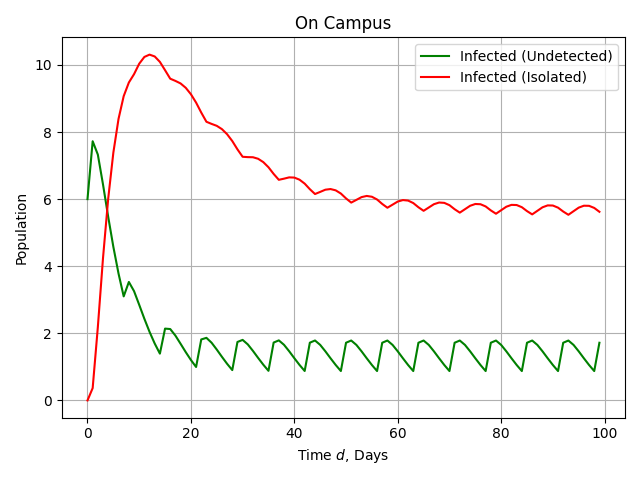
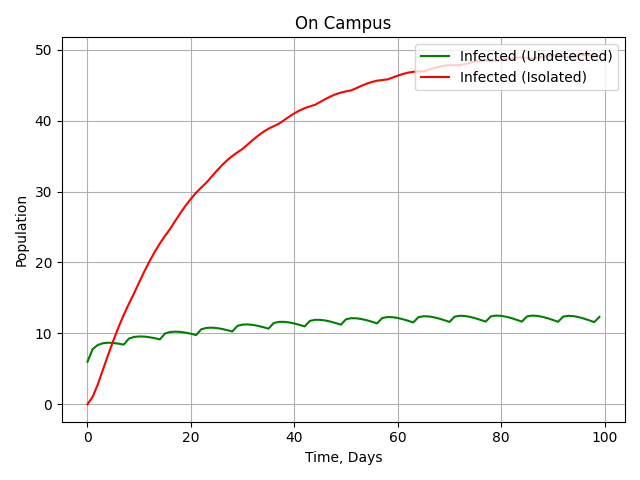
Added vaccinations, I have no clue why they don't work

diff --git a/DukeModel.py b/DukeModel.py
@@ -2,7 +2,7 @@ import numpy as np
 import matplotlib.pyplot as plt
 from scipy.integrate import odeint
 
-T_end = 100 # In Days
+T_end = 100  # In Days
 
 # ON CAMPUS VARIABLES
 Susceptible_c = np.zeros(T_end)
@@ -14,6 +14,7 @@ Undetected_c[0] = 6
 Iso_un_c = np.zeros(T_end)  # false pos
 Iso_in_c = np.zeros(T_end)  # true pos
 Sympt_c = np.zeros(T_end)  # Symptomatic
+Vaccinated_c = np.zeros(T_end)
 Recovered_c = np.zeros(T_end)
 Deaths_c = np.zeros(T_end)
 
@@ -28,11 +29,11 @@ Iso_un_o = np.zeros(T_end)  # false pos
 Iso_in_o = np.zeros(T_end)  # true pos
 Sympt_o = np.zeros(T_end)  # Symptomatic
 Recovered_o = np.zeros(T_end)
+Vaccinated_o = np.zeros(T_end)
 Deaths_o = np.zeros(T_end)
 
 totSusceptible = np.zeros(T_end)
 totUndetected = np.zeros(T_end)
-
 
 death = 0.00004
 recovery_rate = (1 / 14)
@@ -40,17 +41,19 @@ symptom_onset = 0.06122
 mu = (1 / 14)  # false positives returned
 sensitivity = .8
 specificity = .98
-
+vaccineEfficacy = .9  #
+vaccineDate = 0
 
 # SWEEP VARIABLES
-R_stu_range = np.array([0,1,2])
-R_c = 1
+R_stu_range = np.array([1, 1.5, 2])
+R_c = .5
 
+screening_range = np.array([1, 2, 3]) / 7  # days per week
 
-screening_range = np.array([1,2,3])/7  # days per week
+X_range = np.array([0, 1, 2])  # infections per week
+Y_range = np.array([0, 3, 6])
 
-X_range = np.array([0,1,2]) #infections per week
-Y_range = np.array([0,2,4])
+VaccineDist = np.array([25, 50, 100]) / 7  # Daily vaccine distribution
 
 
 def plot(Susceptible, Undetected, Symptomatic, Recovered, Dead, Fp, Tp, t, name, dir, sweptVar):
@@ -59,7 +62,7 @@ def plot(Susceptible, Undetected, Symptomatic, Recovered, Dead, Fp, Tp, t, name,
     # Plot using red circles
     # ax.plot(t, G, 'b-', label='Oral OP Concentration (μg/L)', markevery=10)
 
-    #ax.plot(t, U, 'g-', label='Uninfected')
+    # ax.plot(t, U, 'g-', label='Uninfected')
     """
     ax.plot(t, A, 'b-', label='Undetected (Asymptomatic)')
     ax.plot(t, S, 'r-', label='Isolated (Symptomatic)')
@@ -69,11 +72,16 @@ def plot(Susceptible, Undetected, Symptomatic, Recovered, Dead, Fp, Tp, t, name,
     ax.plot(t, D, 'k-', label='Dead')
     """
 
-    totalInfectedIsolated = np.array([Symptomatic, Tp])
+    totalInfectedIsolated = np.array([Symptomatic, Tp]).sum(axis=0)
+    totalVaccinated = np.array([Vaccinated_o, Vaccinated_c]).sum(axis=0)
+    totalSusceptible = np.array([Susceptible_c, Susceptible_o]).sum(axis=0)
     ax.plot(t, Undetected, 'g-', label='Infected (Undetected)')
-    ax.plot(t, totalInfectedIsolated.sum(axis=0), 'r-', label='Infected (Isolated)')
+    ax.plot(t, totalInfectedIsolated, 'r-', label='Infected (Isolated)')
+    """ ax.plot(t, totalVaccinated, 'b-', label="Vaccinated")
+    ax.plot(t, totalSusceptible, 'k-', label="Susceptible")
+    """
     # Set labels and turn grid on
-    ax.set(xlabel='Time, Days', ylabel=r'Population', title=name)
+    ax.set(xlabel='Time, Days', ylabel=r'Population')
     ax.grid(True)
     ax.legend(loc='upper right')
     # Use space most effectively
@@ -82,7 +90,7 @@ def plot(Susceptible, Undetected, Symptomatic, Recovered, Dead, Fp, Tp, t, name,
     fig.show()
 
 
-def OnCampus(t, R_stu, screening, X):
+def OnCampus(t, R_stu, screening, X, vaccineDist):
     infectedFrac = (
             totUndetected[t] / (totSusceptible[t] + totUndetected[t]))  # Fraction of non-isolated students infected
 
@@ -91,21 +99,25 @@ def OnCampus(t, R_stu, screening, X):
     Beta_stu = (recovery_rate + symptom_onset) * R_stu  # Each student to each student
     Beta_c = (recovery_rate + symptom_onset) * R_c  # Between on campus students
 
-    if t%7 ==0:
+    if t % 7 == 0 and Susceptible_c[t] >= X:
         x = X
-        #print("New Infections On Campus: {:.3}".format(Iso_in_c[t]+Sympt_c[t]))
+        # print("New Infections On Campus: {:.3}".format(Iso_in_c[t]+Sympt_c[t]))
     else:
         x = 0
+    vaccinated = 0
+    if vaccineDist and t >= vaccineDate:
+        if Susceptible_o[t] - vaccineDist * vaccineEfficacy >= 0:
+            vaccinated = vaccineDist * vaccineEfficacy
+        else:
+            Susceptible_o[t] = 0
 
-
-
-    #print(infectedFrac, infectedFrac_c)
+    # print(infectedFrac, infectedFrac_c)
 
     Susceptible_c[t + 1] = Susceptible_c[t] * (1 - Beta_stu * infectedFrac - Beta_c * infectedFrac_c) \
-                           - Susceptible_c[t - 1] * screening * (1 - specificity) + mu * Iso_un_c[t] - x
+                           - Susceptible_c[t - 1] * screening * (1 - specificity) + mu * Iso_un_c[t] - x - vaccinated
 
     Undetected_c[t + 1] = Undetected_c[t] * (1 - symptom_onset - recovery_rate) \
-                          + Susceptible_c[t] *(Beta_stu * infectedFrac + Beta_c * infectedFrac_c)\
+                          + Susceptible_c[t] * (Beta_stu * infectedFrac + Beta_c * infectedFrac_c) \
                           - Undetected_c[t - 1] * screening * sensitivity + x
 
     Iso_un_c[t + 1] = Iso_un_c[t] * (1 - mu) + Susceptible_c[t - 1] * screening * (1 - specificity)
@@ -114,30 +126,43 @@ def OnCampus(t, R_stu, screening, X):
 
     Sympt_c[t + 1] = Sympt_c[t] * (1 - recovery_rate - death) + symptom_onset * (Iso_in_c[t] + Undetected_c[t])
 
+    Vaccinated_o[t + 1] = Vaccinated_o[t] + vaccinated
+
     Recovered_c[t + 1] = Recovered_c[t] + recovery_rate * (Iso_in_c[t] + Undetected_c[t] + Sympt_c[t])
 
     Deaths_c[t + 1] = Deaths_c[t] + death * Sympt_c[t]
+
+    if Susceptible_c[t] <= 0:
+        Susceptible_c[t] = 0
 
     # if t % 21 == 0:
     # print("True Pos:{}, Asympt: {}, Sympt: {}".format(Iso_in_c[t], Undetected_c[t], Sympt_c[t]))
 
 
-def OffCampus(t, R_stu, screening, Y):
-
+def OffCampus(t, R_stu, screening, Y, vaccineDist):
     infectedFrac = (
             totUndetected[t] / (totSusceptible[t] + totUndetected[t]))  # Fraction of non-isolated students infected
 
     Beta_stu = (recovery_rate + symptom_onset) * R_stu  # Each student to each student
 
-    if t%7 ==0:
-        #print("New Infections Off Campus: {}".format(Iso_in_o[t]+Sympt_o[t]))
+    if t % 7 == 0 and Susceptible_o[t] >= Y:
+        # print("New Infections Off Campus: {}".format(Iso_in_o[t]+Sympt_o[t]))
         y = Y
     else:
         y = 0
 
+    vaccinated = 0
+    if vaccineDist and t >= vaccineDate:
+        if Susceptible_c[t] - vaccineDist * vaccineEfficacy >= 0:
+            vaccinated = vaccineDist * vaccineEfficacy
+        else:
+            Susceptible_c[t] = 0
+            vaccinated = 0
+    print(vaccinated, Susceptible_c[t])
+
     Susceptible_o[t + 1] = Susceptible_o[t] * (
             1 - Beta_stu * infectedFrac) - Susceptible_o[t - 1] * screening * (1 - specificity) + \
-                           mu * Iso_un_o[t] - y
+                           mu * Iso_un_o[t] - y - vaccinated
 
     Undetected_o[t + 1] = Undetected_o[t] * (1 - symptom_onset - recovery_rate) + \
                           Beta_stu * Susceptible_o[t] * infectedFrac \
@@ -149,59 +174,63 @@ def OffCampus(t, R_stu, screening, Y):
 
     Sympt_o[t + 1] = Sympt_o[t] * (1 - recovery_rate - death) + symptom_onset * (Iso_in_o[t] + Undetected_o[t])
 
+    Vaccinated_o[t + 1] = Vaccinated_o[t] + vaccinated
+
     Recovered_o[t + 1] = Recovered_o[t] + recovery_rate * (Iso_in_o[t] + Undetected_o[t] + Sympt_o[t])
 
     Deaths_o[t + 1] = Deaths_o[t] + death * Sympt_o[t]
 
+    if Susceptible_o[t] <= 0:
+        Susceptible_o[t] = 0
     # if t % 21 == 0:
     # print("True Pos:{}, Asympt: {}, Sympt: {}".format(Iso_in_o[t], Undetected_o[t], Sympt_o[t]))
 
 
-def Model(R_stu, screening, X, Y, dir, sweptVar):
-
+def Model(R_stu, screening, X, Y, vaccineDist, dir, sweptVar):
     time = range(0, T_end)
 
     for t in time[0:T_end - 1]:
-
         totSusceptible[t] = Susceptible_c[t] + Susceptible_o[t]
         totUndetected[t] = Undetected_c[t] + Undetected_o[t]
-        OnCampus(t, R_stu, screening, X)
-        OffCampus(t, R_stu, screening, Y)
+        OnCampus(t, R_stu, screening, X, vaccineDist)
+        OffCampus(t, R_stu, screening, Y, vaccineDist)
 
-
-
-    print("Total Recovered {}\n R:{}, Screening:{}, X:{}, Y:{},".format(
-        Recovered_c[99]+Recovered_o[99], R_stu, screening, X, Y))
+    print("Total Recovered {} On Campus: {}, Off Campus {}\n R:{}, Screening:{}, X:{}, Y:{},".format(
+        Recovered_c[99] + Recovered_o[99], Recovered_c[99], Recovered_o[99], R_stu, screening, X, Y))
 
     campusData = (Susceptible_c, Undetected_c, Sympt_c, Recovered_c, Deaths_c, Iso_un_c, Iso_in_c)
-    offCampusData =(Susceptible_o, Undetected_o, Sympt_o, Recovered_o, Deaths_o, Iso_un_o, Iso_in_o)
+    offCampusData = (Susceptible_o, Undetected_o, Sympt_o, Recovered_o, Deaths_o, Iso_un_o, Iso_in_o)
 
     plot(Susceptible_c, Undetected_c, Sympt_c, Recovered_c, Deaths_c, Iso_un_c, Iso_in_c, time, "On Campus",
          dir, sweptVar)
     plot(Susceptible_o, Undetected_o, Sympt_o, Recovered_o, Deaths_o, Iso_un_o, Iso_in_o, time, "Off Campus",
          dir, sweptVar)
-    plot(np.add(Susceptible_c,Susceptible_o),
-         np.add(Undetected_c,Undetected_o),
+    plot(np.add(Susceptible_c, Susceptible_o),
+         np.add(Undetected_c, Undetected_o),
          np.add(Sympt_c, Sympt_o),
-         np.add(Recovered_c,Recovered_o),
-         np.add(Deaths_c,Deaths_o),
-         np.add(Iso_un_c,Iso_un_o ),
+         np.add(Recovered_c, Recovered_o),
+         np.add(Deaths_c, Deaths_o),
+         np.add(Iso_un_c, Iso_un_o),
          np.add(Iso_in_c, Iso_in_o),
          time, "Overall Data", dir, sweptVar)
 
 
-sweepVar = int(input("Select Sweep Variable \n 1) Inter-Student R \n 2) Screening Frequency \n 3) Exogenous Shocks \n"))
+sweepVar = int(input("Select Sweep Variable \n 1) Inter-Student R \n 2) Screening Frequency \n 3) Exogenous Shocks \n "
+                     "4) Vaccine Availibility\n"))
 
 if sweepVar == 1:
     for r in R_stu_range:
-        Model(r, screening_range[1], X_range[1], Y_range[1], "R_Stu", "r_{}".format(r))
+        Model(r, screening_range[1], X_range[1], Y_range[1], 0, "R_Stu", "r_{}".format(r))
 
 elif sweepVar == 2:
     for screen in screening_range:
-        print(screen*7)
-        Model(R_stu_range[1], screen, X_range[1], Y_range[1], "Screening", "Screening_{}".format(screen*7))
+        print(screen * 7)
+        Model(R_stu_range[1], screen, X_range[1], Y_range[1], 0, "Screening", "Screening_{}".format(screen * 7))
+elif sweepVar == 3:
+    for shock in range(0, 3):
+        Model(R_stu_range[1], screening_range[1], X_range[shock], Y_range[shock], 0, "Exogenous",
+              "ShockLevel_{}".format(shock))
 else:
-    for shock in range(0,3):
-        Model(R_stu_range[1], screening_range[1], X_range[shock], Y_range[shock], "Exogenous", "ShockLevel_{}".format(shock))
-
-
+    for vaccineDist in VaccineDist:
+        Model(R_stu_range[1], screening_range[1], X_range[1], Y_range[1], vaccineDist, "Vaccine",
+              "Vaccine_{}".format(vaccineDist * 7))
